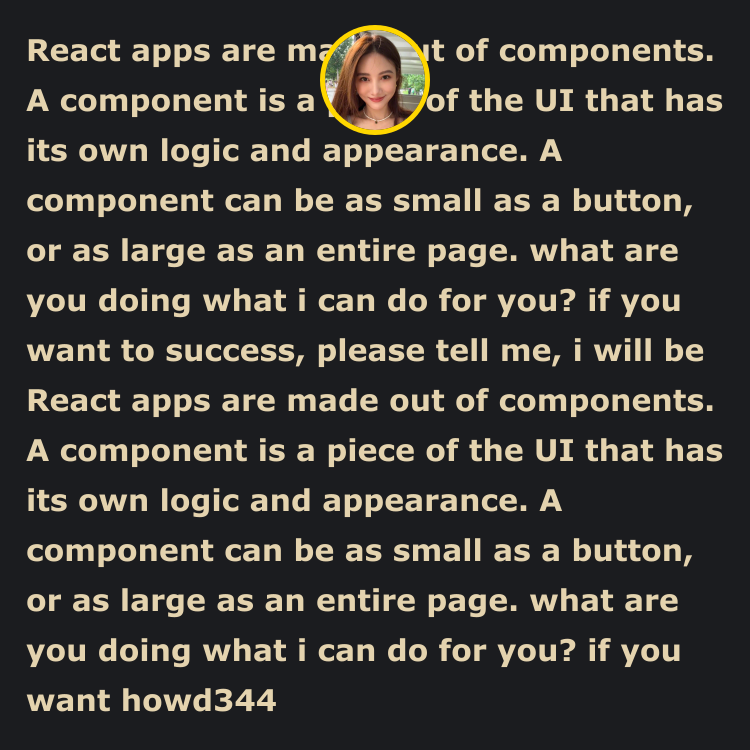
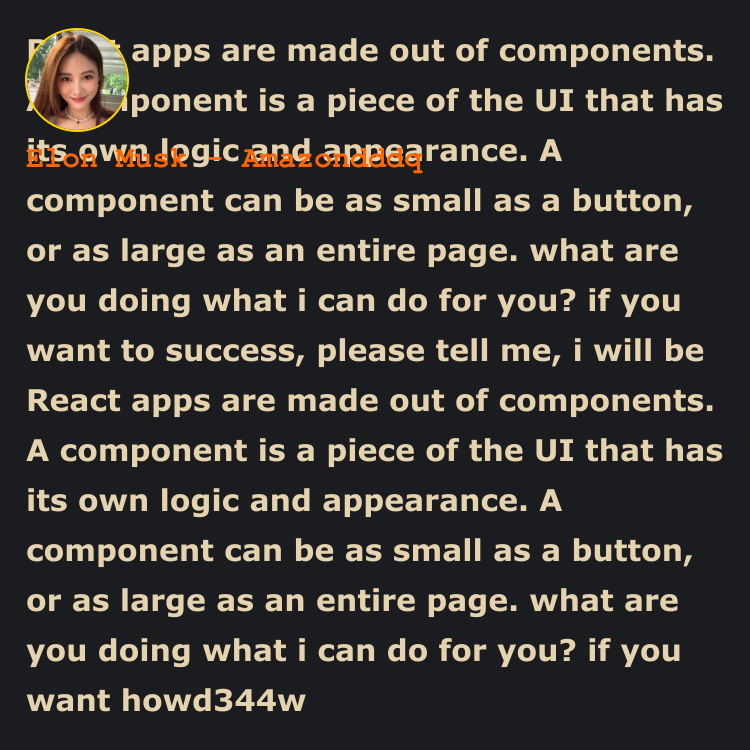
feat(clear): use promise cpu to generate photo

diff --git a/src/cpu.js b/src/cpu.js
@@ -2,40 +2,50 @@ class Cpu {
   constructor({ canvasHeaderSetting, x, canvasWidth, authorWidth }) {
     this.canvasHeaderSetting = canvasHeaderSetting
     this.x = x // 左边绘制的x坐标（计算过的）
-    this.authorWidth = authorWidth
+    this.authorWidth = authorWidth // author width
     this.canvasWidth = canvasWidth // canvas width
   }
   calculateApplyHeader() {
     return {
-      avatar: this.calculateApplyAvatar
+      avatar: this.calculateApplyAvatar,
+      author: this.calculateApplyAuthor
     }
   }
 
   get calculateApplyAvatar() {
     const { headerAvatarSize, headerAvatarBorderWidth, headerAvatarBorderColor } = this.canvasHeaderSetting
     return {
-      ...this.calculateDomProperty('avatar'),
       avatarSize: headerAvatarSize,
       avatarRadius: headerAvatarSize / 2,
       headerAvatarBorderWidth,
-      headerAvatarBorderColor
+      headerAvatarBorderColor,
+      ...this.calculateDomProperty('avatar')
     }
   }
   get calculateApplyAuthor() {
-    const { headerShowAuthor, headerAuthorFontSize, headerAuthorFontWeight } = this.canvasHeaderSetting
-    return {
-      headerShowAuthor,
+    const {
+      showHeaderAuthor,
       headerAuthorFontSize,
-      headerAuthorFontWeight
+      headerAuthorFontWeight,
+      headerAuthorFontColor,
+      headAuthorFontSizeIndex
+    } = this.canvasHeaderSetting
+    return {
+      showHeaderAuthor,
+      headerAuthorFontSize,
+      headerAuthorFontWeight,
+      headerAuthorFontColor,
+      headAuthorFontSizeIndex,
+      ...this.calculateDomProperty('author')
     }
   }
   calculateDomProperty(dom) {
     switch (dom) {
       case 'avatar':
-        return this.calculateAvatarCenterPointPosition()
+        return this.calculateAvatarCenterPointPosition
 
       case 'author':
-        return this.calculateAuthorStartPointPosition()
+        return this.calculateAuthorStartPointPosition
       case 'time':
         break
 
@@ -44,7 +54,7 @@ class Cpu {
     }
   }
 
-  calculateAvatarCenterPointPosition() {
+  get calculateAvatarCenterPointPosition() {
     const { headerAlign, headerPaddingTop, headerAvatarSize, headerAvatarBorderWidth } = this.canvasHeaderSetting
     const { x, canvasWidth } = this
     switch (headerAlign) {
@@ -75,30 +85,32 @@ class Cpu {
         }
     }
   }
-  calculateAuthorStartPointPosition() {
-    const { headerAlign, headerAvatarMarginBottom } = this.canvasHeaderSetting
-    const { x } = this
+  get calculateAuthorStartPointPosition() {
+    const { headerAlign, headerAvatarMarginBottom, headerAvatarBorderWidth } = this.canvasHeaderSetting
+    const { x, authorWidth, canvasWidth } = this
+    const { bottomY, avatarCenterPointX } = this.calculateAvatarCenterPointPosition
+
     switch (headerAlign) {
       case 'left':
         return {
           authorStartPointX: x,
-          authorStartPointY: this.calculateApplyAvatar.bottomY + headerAvatarMarginBottom
+          authorStartPointY: bottomY + headerAvatarMarginBottom
         }
       case 'center':
         return {
-          authorStartPointX: x,
-          authorStartPointY: this.calculateApplyAvatar.bottomY + headerAvatarMarginBottom
+          authorStartPointX: avatarCenterPointX - authorWidth / 2,
+          authorStartPointY: bottomY + headerAvatarMarginBottom
         }
       case 'right':
         return {
-          authorStartPointX: x,
-          authorStartPointY: this.calculateApplyAvatar.bottomY + headerAvatarMarginBottom
+          authorStartPointX: canvasWidth - x - authorWidth - headerAvatarBorderWidth,
+          authorStartPointY: bottomY + headerAvatarMarginBottom
         }
 
       default:
         return {
-          authorStartPointX: x,
-          authorStartPointY: this.calculateApplyAvatar.bottomY + headerAvatarMarginBottom
+          authorStartPointX: avatarCenterPointX - authorWidth / 2,
+          authorStartPointY: bottomY + headerAvatarMarginBottom
         }
     }
   }

diff --git a/src/draw.js b/src/draw.js
@@ -38,8 +38,6 @@ class Drawer {
     this.content = content
     this.canvas = createCanvas(this.width, 1)
     this.ctx = this.canvas.getContext('2d')
-    this.measureCanvas = createCanvas(this.width, 1) // measureCanvas target to calculate some width ,such as author width
-    this.measureCtx = this.canvas.getContext('2d')
     this.lineWidthMap = new Map()
     this.totalLineNumber = this.calculateContentTotalLine()
     const maxLineWidth = this.getMaxLineWidth()
@@ -47,29 +45,45 @@ class Drawer {
 
     // header
     this.header = header
+    this.author = this.anyPhotoConfig.author
     this.headerHeight = 0
   }
-  setCanvas() {
-    const { measureCtx } = this
-    // contentHeight compare to use small height
+  async setupCpu() {
     const compareHeight = this.fontSize >= this.lineGap ? this.lineGap / 2 : this.fontSize / 2
     this.contentHeight =
       (this.totalLineNumber - 1) * this.lineGap + this.totalLineNumber * this.fontSize + this.y * 2 + compareHeight
+    this.ctx.save()
     this.cpu = new Cpu({
       canvasHeaderSetting: this.header,
       x: this.x,
       canvasWidth: this.width,
-      authorWidth: measureCtx.measureText(this.anyPhotoConfig.author).width
+      authorWidth: this.calculateAuthorWidth()
     })
     this.height = this.contentHeight
     this.canvas = createCanvas(this.width, this.contentHeight)
     this.ctx = this.canvas.getContext('2d')
-
+    return this
+  }
+  async setupCanvas() {
     const { ctx } = this
     ctx.beginPath()
     ctx.fillStyle = this.backgroundColor
     ctx.fillRect(0, 0, this.width, this.height)
     return this
+  }
+  // todo应该需要想个办法，去智能的判断字体的宽度，是否大于canvasWidth-2*x
+  calculateAuthorWidth() {
+    const { headerAuthorFontColor, headerAuthorFontSize, headerAuthorFontWeight, headAuthorFontSizeIndex } = this.header
+    const { author } = this.anyPhotoConfig
+    const { ctx } = this
+    ctx.save()
+    ctx.fillStyle = headerAuthorFontColor
+    ctx.font = `${headerAuthorFontWeight} ${headerAuthorFontSize}px ${this.englishFonts[headAuthorFontSizeIndex]}`
+    ctx.textBaseline = this.textBaseline
+    ctx.textAlign = this.textAlign
+    const authorWidth = ctx.measureText(author).width
+    ctx.restore()
+    return authorWidth
   }
   calculateContentTotalLine() {
     const { ctx } = this
@@ -129,6 +143,7 @@ class Drawer {
     }
     return this
   }
+
   async drawAvatar() {
     const { headerAvatarBorderWidth, headerAvatarBorderColor, avatarRadius, avatarCenterPointX, avatarCenterPointY } =
       this.cpu.calculateApplyAvatar
@@ -160,6 +175,27 @@ class Drawer {
       ctx.restore()
     }
 
+    return this
+  }
+  drawAuthor() {
+    const {
+      showHeaderAuthor,
+      headerAuthorFontSize,
+      headerAuthorFontWeight,
+      authorStartPointX,
+      authorStartPointY,
+      headerAuthorFontColor,
+      headAuthorFontSizeIndex
+    } = this.cpu.calculateApplyAuthor
+    if (showHeaderAuthor) {
+      const { ctx, author } = this
+      ctx.beginPath()
+      ctx.fillStyle = headerAuthorFontColor
+      ctx.font = `${headerAuthorFontWeight} ${headerAuthorFontSize}px ${this.englishFonts[headAuthorFontSizeIndex]}`
+      ctx.textBaseline = this.textBaseline
+      ctx.textAlign = this.textAlign
+      ctx.fillText(author, authorStartPointX, authorStartPointY)
+    }
     return this
   }
   getMaxLineWidth() {
@@ -197,12 +233,13 @@ class Drawer {
 
 const draw = ({ content, anyPhotoConfig }) => {
   const drawer = new Drawer({ content, anyPhotoConfig })
-  // drawer.setCanvas().drawing().generatePng()
   drawer
-    .setCanvas()
-    .drawing()
-    .drawAvatar()
-    .then(x => x.generatePng())
+    .setupCpu()
+    .then(drawer => drawer.setupCanvas())
+    .then(drawer => drawer.drawing())
+    .then(drawer => drawer.drawAvatar())
+    .then(drawer => drawer.drawAuthor())
+    .then(drawer => drawer.generatePng())
 }
 
 module.exports = draw

diff --git a/src/setting.js b/src/setting.js
@@ -12,19 +12,21 @@ const defaultCanvasSetting = {
   x: 20,
   y: 30,
   header: {
-    headerAlign: 'center', // left / center / right
+    headerAlign: 'left', // left / center / right
     headerPaddingTop: 30,
     headerPaddingBottom: 20,
     // avatar
     headerAvatarSize: 100,
-    headerAvatarBorderWidth: 5, // 应该要最大10，否则影响布局
+    headerAvatarBorderWidth: 2, // 应该要最大10，否则影响布局
     headerAvatarBorderColor: 'gold',
     headerAvatarMarginBottom: 10,
 
     // author
-    headerShowAuthor: true,
+    showHeaderAuthor: true,
     headerAuthorFontSize: 30,
+    headerAuthorFontColor: '#FF6600',
     headerAuthorFontWeight: 'bold',
+    headAuthorFontSizeIndex: 4,
     headerAuthorMarginBottom: 10,
 
     headerShowCreateTime: true,
